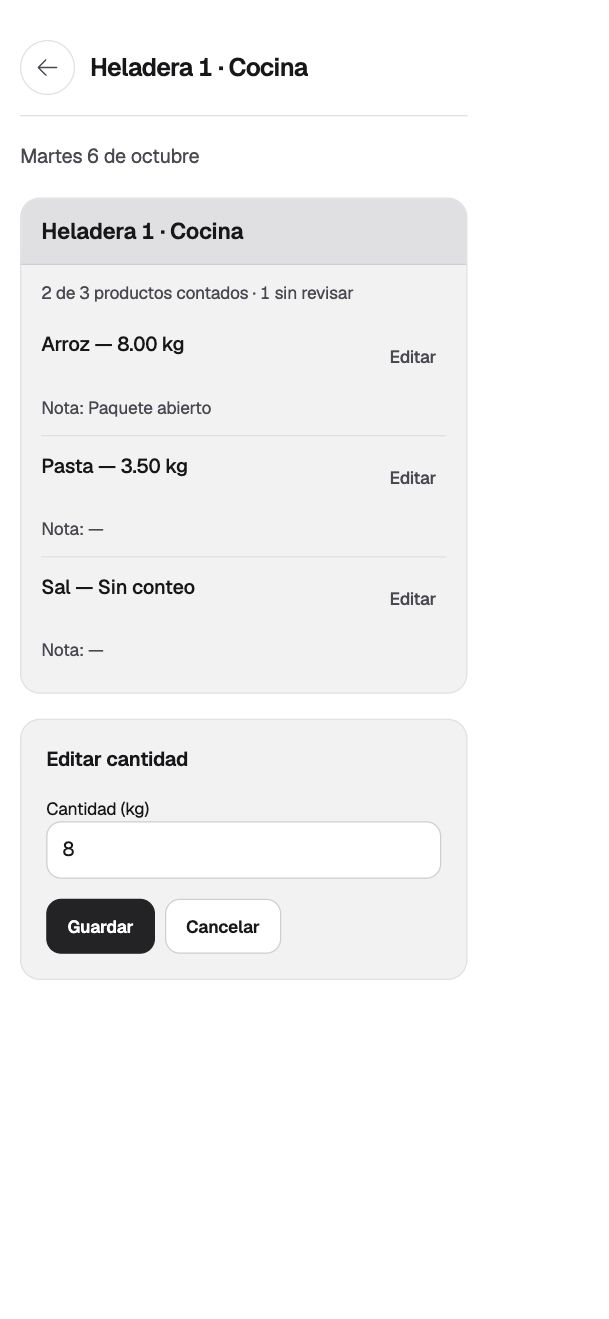
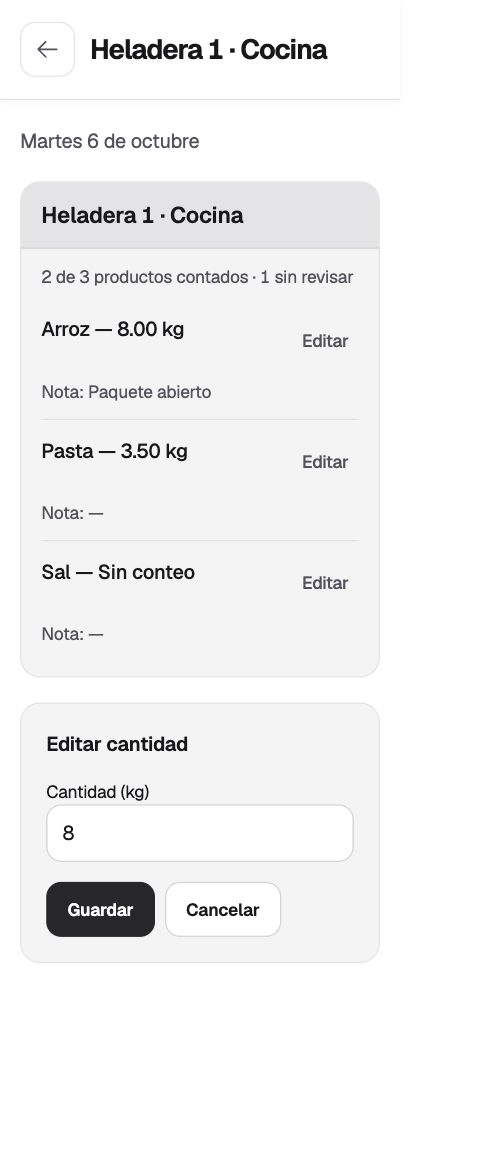
Give inner apps a distinct shared header bar

diff --git a/src/components/ui/page-header.tsx b/src/components/ui/page-header.tsx
@@ -8,32 +8,42 @@ import { cn } from "@/lib/cn";
 export function PageHeader({
   actions,
   backHref,
+  backLabel = t.common.back,
   title,
+  titleHref,
+  titleAs = "h1",
+  className,
 }: {
   actions?: ReactNode;
-  backHref: string;
+  backHref?: string;
+  backLabel?: string;
   title: string;
+  titleHref?: string;
+  titleAs?: "h1" | "div";
+  className?: string;
 }): ReactElement {
+  const Title = titleAs;
   return (
     <header
       className={cn(
-        "app-header flex min-w-0 items-center gap-3 py-4",
-        actions != null ? "justify-between" : "gap-4"
+        "app-header flex min-w-0 items-center gap-3",
+        actions != null ? "justify-between" : "gap-4",
+        className
       )}
     >
       <div className="flex min-w-0 items-center gap-3">
-        <Link
-          aria-label={t.common.back}
-          className="app-icon-button flex h-11 w-11 shrink-0 items-center justify-center rounded-full text-muted"
+        {backHref !== undefined && <Link
+          aria-label={backLabel}
+          className="app-icon-button flex h-11 w-11 shrink-0 items-center justify-center rounded-xl text-muted"
           href={backHref}
         >
           <ArrowLeftIcon className="h-5 w-5" />
-        </Link>
-        <h1 className="break-words text-xl font-semibold tracking-tight text-foreground">
-          {title}
-        </h1>
+        </Link>}
+        <Title className="app-header-title break-words text-foreground">
+          {titleHref === undefined ? title : <Link href={titleHref}>{title}</Link>}
+        </Title>
       </div>
-      {actions != null && <div className="shrink-0">{actions}</div>}
+      {actions != null && <div className="flex shrink-0 items-center gap-2">{actions}</div>}
     </header>
   );
 }

diff --git a/src/components/list-page-shell.tsx b/src/components/list-page-shell.tsx
@@ -1,8 +1,9 @@
-import { ArrowLeftIcon, ChevronRightIcon, PlusIcon } from "@heroicons/react/24/outline";
+import { ChevronRightIcon, PlusIcon } from "@heroicons/react/24/outline";
 import Link from "next/link";
 import type { ComponentType, ReactElement, ReactNode } from "react";
 
 import { buttonClassName } from "@/components/ui/button";
+import { PageHeader } from "@/components/ui/page-header";
 import { t } from "@/i18n";
 import { cn } from "@/lib/cn";
 
@@ -19,22 +20,7 @@ export function ListPageShell<T>({ title, backHref, addHref, items, renderItem, 
   return (
     <div className="app-screen">
       <div className="app-page flex flex-col">
-      <header className="app-header flex items-center justify-between py-4">
-        <div className="flex min-w-0 items-center gap-3">
-          <Link
-            href={backHref}
-            aria-label={t.common.back}
-            className="app-icon-button flex h-11 w-11 items-center justify-center rounded-full text-muted"
-          >
-            <ArrowLeftIcon className="h-5 w-5" />
-          </Link>
-          <h1 className="text-xl font-semibold text-foreground">{title}</h1>
-        </div>
-        <Link href={addHref} className={buttonClassName({ className: "rounded-full text-sm" })}>
-          <PlusIcon className="h-4 w-4" />
-          {t.common.add}
-        </Link>
-      </header>
+      <PageHeader title={title} backHref={backHref} actions={<Link href={addHref} className={buttonClassName({ className: "text-sm" })}><PlusIcon className="h-4 w-4" />{t.common.add}</Link>} />
       <main className="flex-1 py-5">
         {items.length === 0 ? emptyState : <div className="space-y-3">{items.map(renderItem)}</div>}
       </main>

diff --git a/src/app/inventory/layout.tsx b/src/app/inventory/layout.tsx
@@ -3,6 +3,8 @@ import type { Metadata } from "next";
 import Link from "next/link";
 import type { ReactElement, ReactNode } from "react";
 
+import { buttonClassName } from "@/components/ui/button";
+import { PageHeader } from "@/components/ui/page-header";
 import { t } from "@/i18n";
 import { getCurrentGroup } from "@/lib/auth/access";
 
@@ -16,14 +18,11 @@ export const metadata: Metadata = {
 export default async function InventoryLayout({ children }: { children: ReactNode }): Promise<ReactElement> {
   const group = await getCurrentGroup();
   return <div className="app-page max-w-2xl">
-    <header className="mb-6 flex flex-wrap items-center justify-between gap-3 border-b border-zinc-200 pb-4">
-      <Link href="/inventory" className="text-lg font-semibold">{t.inventory.title}</Link>
-      <div className="flex flex-wrap items-center gap-3">
-        <Link href="/inventory/new" className="app-text-action">Nuevo inventario</Link>
-        {group === "admin" && <Link href="/" className="app-text-action">{t.access.mainApp}</Link>}
-        <UserButton />
-      </div>
-    </header>
+    <PageHeader
+      title={t.inventory.title} titleHref="/inventory" titleAs="div" className="mb-6"
+      backHref={group === "admin" ? "/" : undefined} backLabel={t.access.mainApp}
+      actions={<><Link href="/inventory/new" aria-label={t.inventory.newInventory} className={buttonClassName({ variant: "secondary", size: "compact" })}>{t.inventory.newInventoryShort}</Link><UserButton /></>}
+    />
     {children}
     <p className="mt-8 text-center text-xs text-muted">{t.inventory.online}</p>
   </div>;

diff --git a/src/app/globals.css b/src/app/globals.css
@@ -94,8 +94,19 @@ summary { cursor: pointer; min-height: 2.75rem; align-content: center; }
     position: sticky;
     top: 0;
     z-index: 10;
+    margin-top: calc(-1 * max(1rem, env(safe-area-inset-top)));
+    margin-inline: -1rem;
+    min-height: 5rem;
+    padding: max(0.875rem, env(safe-area-inset-top)) 1rem 0.875rem;
     border-bottom: 1px solid #e4e4e7;
     background: #fff;
+    box-shadow: 0 2px 6px rgb(24 24 27 / 3%);
+  }
+  .app-header-title {
+    font-size: 1.375rem;
+    font-weight: 650;
+    line-height: 1.2;
+    letter-spacing: -0.035em;
   }
   .app-icon { border-radius: 0.75rem; }
   .app-icon-button {
@@ -156,6 +167,7 @@ summary { cursor: pointer; min-height: 2.75rem; align-content: center; }
 
 @media (min-width: 640px) {
   .app-page { padding-inline: 1.5rem; padding-top: 1.5rem; }
+  .app-header { margin-inline: -1.5rem; margin-top: calc(-1 * max(1.5rem, env(safe-area-inset-top))); padding-inline: 1.5rem; }
 }
 @media (prefers-reduced-motion: reduce) {
   *, *::before, *::after { scroll-behavior: auto !important; transition-duration: 0.01ms !important; animation-duration: 0.01ms !important; animation-iteration-count: 1 !important; }

diff --git a/src/app/access/page.tsx b/src/app/access/page.tsx
@@ -1,6 +1,6 @@
-import Link from "next/link";
 import type { ReactElement } from "react";
 
+import { PageHeader } from "@/components/ui/page-header";
 import { t } from "@/i18n";
 import { getAccessMembers } from "@/lib/queries/access";
 
@@ -11,11 +11,12 @@ export const dynamic = "force-dynamic";
 export default async function AccessPage(): Promise<ReactElement> {
   const members = await getAccessMembers();
   return (
-    <main className="app-page max-w-2xl space-y-6">
-      <Link href="/" className="text-sm text-warm-dark">← {t.access.mainApp}</Link>
-      <h1 className="text-3xl font-semibold">{t.access.title}</h1>
+    <div className="app-page max-w-2xl">
+      <PageHeader title={t.access.title} backHref="/" />
+      <main className="space-y-6 py-5">
       <p className="text-sm text-muted">{t.access.description}</p>
       <AccessForm members={members} />
-    </main>
+      </main>
+    </div>
   );
 }

diff --git a/src/i18n/messages.ts b/src/i18n/messages.ts
@@ -23,6 +23,7 @@ export const t = {
     initialRun: "Inventario inicial",
     emptyRun: "Este inventario todavía no tiene conteos guardados.",
     runDetailHint: "Cantidades guardadas en este inventario. Los cambios comparan con el inventario anterior.",
+    newInventory: "Nuevo inventario", newInventoryShort: "Nuevo",
     weeklyInventory: "Inventario semanal",
     weeklyListHint: "Conteos del inventario semanal, agrupados por heladera. Los cambios comparan con el inventario anterior.",
     compactProgress: (counted: number, total: number): string => `${counted}/${total} contados`,

diff --git a/docs/design/mobile-overhaul.md b/docs/design/mobile-overhaul.md
@@ -19,6 +19,8 @@ recipes, menu, access management, and the dashboard.
   hides the purchases shortcut for now, uses “Inventario semanal”
   for weekly navigation, and shows compact count labels on each fridge. Empty
   comments are hidden; opening a fridge edit form expands its tile to full width.
+- Work apps share a full-width, sticky white header bar with a stronger title,
+  consistent back controls, separated actions, and a subtle bottom divider.
 - A + control beside the history clock opens the add-fridge form in a native
   dialog, with keyboard focus handling, Escape dismissal, and a cancel action.
 - Inputs use 16px text; shared buttons and icon controls have 44px touch targets.
@@ -60,7 +62,7 @@ signed-in production records or proof of every end-to-end workflow.
 
 ## Verification
 
-The existing 140 tests, lint, type checking, and production build pass. Visual
+The existing 142 tests, lint, type checking, and production build pass. Visual
 previews were inspected at phone widths; DOM checks at 320px and 390px confirmed
 no horizontal overflow on the sampled screens, with a 768px inventory check as
 well. Computed styles confirmed a white work-screen background, 16px input text,
